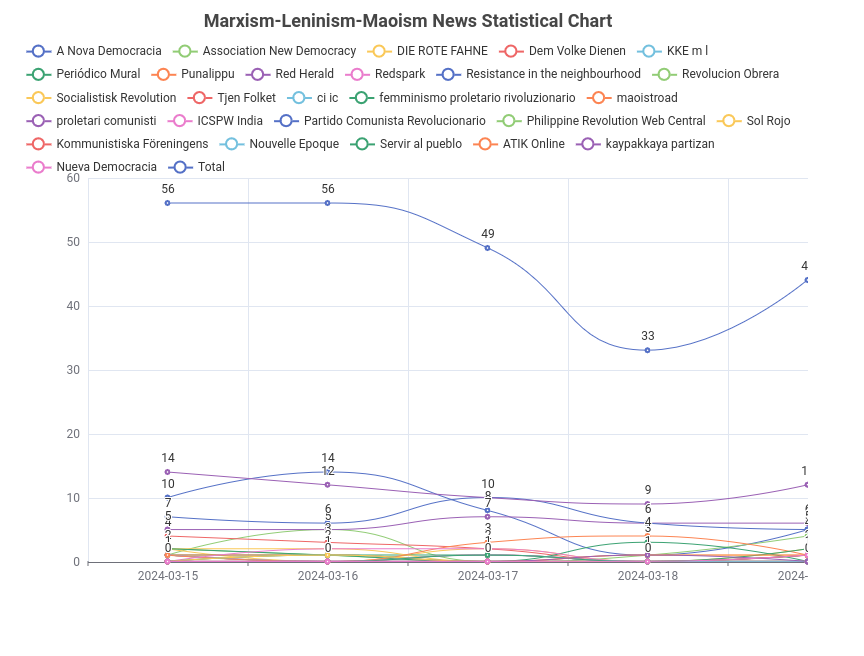
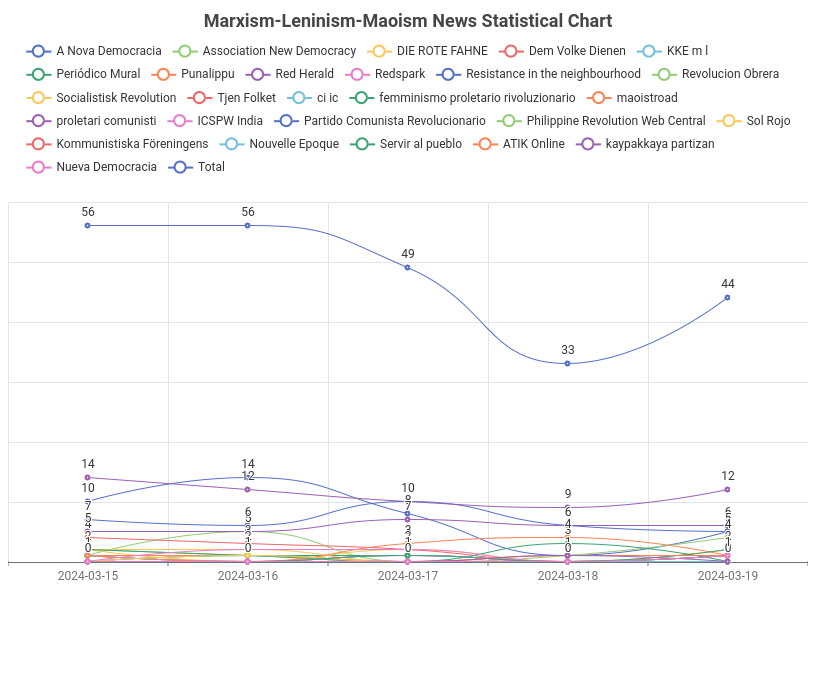
News.

diff --git a/pages/statistic_render.html b/pages/statistic_render.html
@@ -7,11 +7,11 @@
 
 </head>
 <body >
-    <div id="50fb6e40dca64b31a23eddb46b902f97" class="chart-container" style="width:800px; height:624px; "></div>
+    <div id="3f49ecc321b24dd3ad549c85f8bdfbc4" class="chart-container" style="width:800px; height:624px; "></div>
     <script>
-        var chart_50fb6e40dca64b31a23eddb46b902f97 = echarts.init(
-            document.getElementById('50fb6e40dca64b31a23eddb46b902f97'), 'white', {renderer: 'canvas'});
-        var option_50fb6e40dca64b31a23eddb46b902f97 = {
+        var chart_3f49ecc321b24dd3ad549c85f8bdfbc4 = echarts.init(
+            document.getElementById('3f49ecc321b24dd3ad549c85f8bdfbc4'), 'white', {renderer: 'canvas'});
+        var option_3f49ecc321b24dd3ad549c85f8bdfbc4 = {
     "animation": true,
     "animationThreshold": 2000,
     "animationDuration": 1000,
@@ -1669,7 +1669,8 @@
             "show": false,
             "zlevel": 0,
             "z": 2,
-            "top": 170,
+            "left": 0,
+            "top": 194,
             "width": 800,
             "containLabel": false,
             "backgroundColor": "transparent",
@@ -1680,7 +1681,7 @@
         }
     ]
 };
-        chart_50fb6e40dca64b31a23eddb46b902f97.setOption(option_50fb6e40dca64b31a23eddb46b902f97);
+        chart_3f49ecc321b24dd3ad549c85f8bdfbc4.setOption(option_3f49ecc321b24dd3ad549c85f8bdfbc4);
     </script>
 </body>
 </html>
